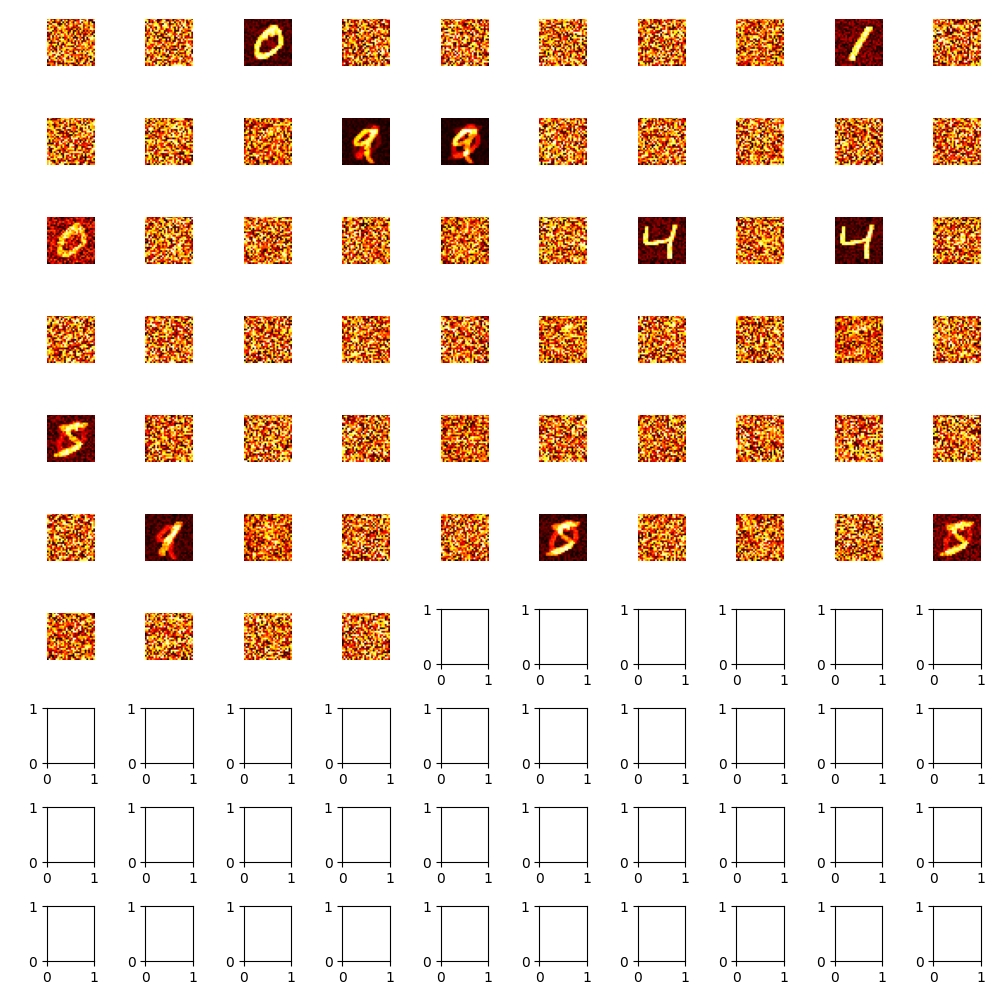
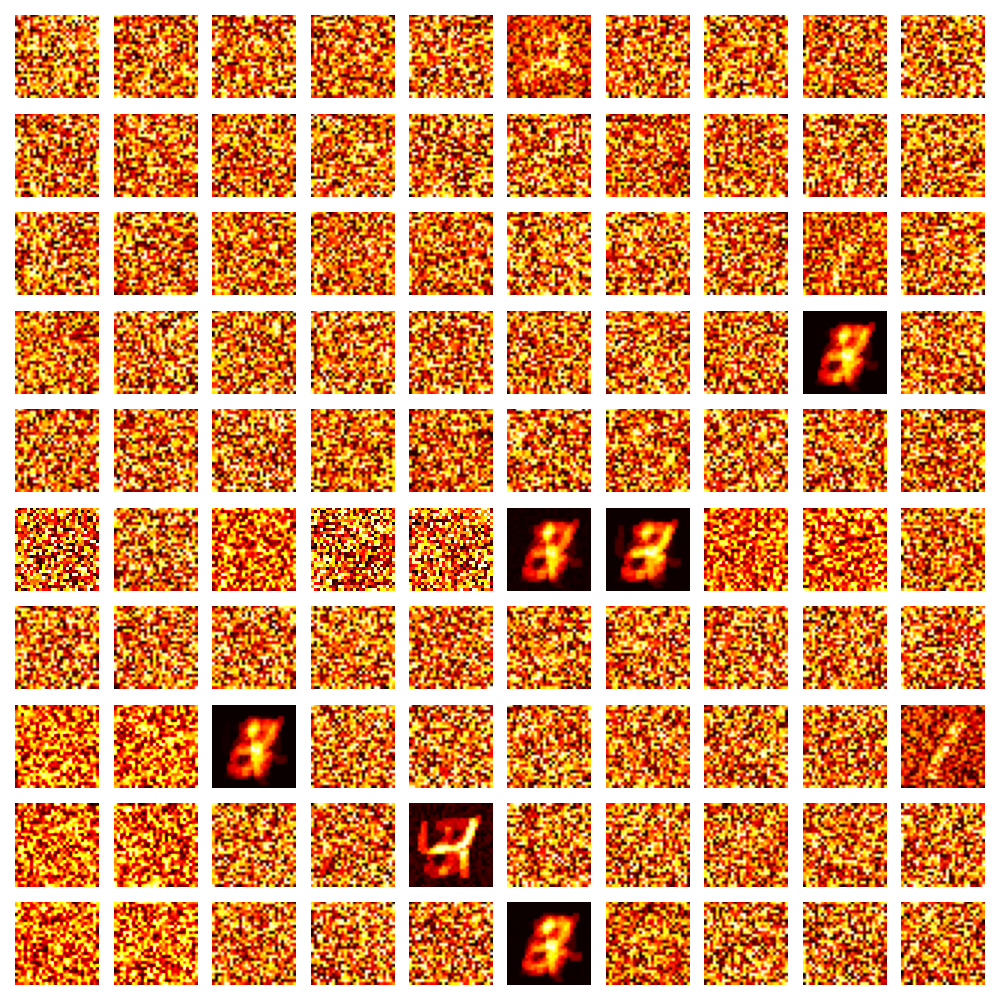
supervised testing to properly check accuracy and use the test data that they have

diff --git a/main.py b/main.py
@@ -1,4 +1,5 @@
 import torch
+import pickle
 from torchvision import datasets, transforms
 from bindsnet.datasets import MNIST
 from bindsnet.encoding import PoissonEncoder
@@ -7,6 +8,7 @@ from bindsnet.network.monitors import Monitor
 from bindsnet.analysis.plotting import plot_input, plot_spikes, plot_weights
 from bindsnet.pipeline import EnvironmentPipeline
 from bindsnet.learning import PostPre
+from collections import Counter, defaultdict
 
 import matplotlib.pyplot as plt
 import os
@@ -22,15 +24,18 @@ print(f"Using device: {device}")
 # Parameters
 n_epochs = 2
 update_interval = 1
-numNeurons = 64
+numNeurons = 100
 simTime = 350
 
 # Dataset and encoding
 #Manually encodes each image and passes it to the neural network
 encoder = PoissonEncoder(time=simTime)
 mnist_data = datasets.MNIST(root='./data', train=True, download=True, transform=transforms.ToTensor())
-subset = 1000
+mnist_test = datasets.MNIST(root='./data', train=False, download=True, transform=transforms.ToTensor())
+subset = 10
+subTest=10
 mnist_data = torch.utils.data.Subset(mnist_data, range(subset))
+mnist_test=torch.utils.data.Subset(mnist_test, range(subTest))
 
 # Initialize the SNN
 network = DiehlAndCook2015(n_inpt=28*28, n_neurons=numNeurons)
@@ -68,23 +73,70 @@ for i in range(n_epochs * len(mnist_data)):
     firing_tracker[neuron_id, label] += 1
 
     labels.append(int(label))
-    predictions.append(neuron_id)  # temporary; will decode later
+    predictions.append(neuron_id)
 
 neuron_label_map={}
 # Assign each neuron a label based on firing history, with a threshold to avoid labelling neurons that are not functioning or barely firing
+#Old system with no confidence threshold to not assign neurons that are not specialized fully
+#for i in range(numNeurons):
+ #   if firing_tracker[i].sum() > 0:
+   #     neuron_label_map[i] = firing_tracker[i].argmax()
+
 for i in range(numNeurons):
-    if firing_tracker[i].sum() > 0:
-        neuron_label_map[i] = firing_tracker[i].argmax()
+    total_spikes = firing_tracker[i].sum()
+    if total_spikes > 0:
+        label = firing_tracker[i].argmax()
+        confidence = firing_tracker[i, label] / total_spikes
+        if confidence > 0.15:
+            neuron_label_map[i] = label
+
+#Old prediction method
+#unlabeled neurons still get compared
 final_predictions = [neuron_label_map.get(nid, -1) for nid in predictions]
+
+#final_predictions = []
+#true_labels = []
+
+#for nid, label in zip(predictions, labels):
+#    if nid in neuron_label_map:
+#        final_predictions.append(neuron_label_map[nid])
+#        true_labels.append(label)
 
 # Evaluation
 correct = sum([p == l for p, l in zip(final_predictions, labels)])
 accuracy = (correct / len(labels) * 100) if labels else 0.0
 print(f"\nFinal Accuracy: {accuracy:.2f}%")
+print(f"Number of labeled neurons: {len(neuron_label_map)}")
+
+# digit accuracy to see what numbers are correct with a high accuracy
+correct_per_class = defaultdict(int)
+total_per_class = Counter(labels)
+
+for p, l in zip(final_predictions, labels):
+    if p == l:
+        correct_per_class[l] += 1
+
+print("\nPer-digit accuracy:")
+for digit in range(10):
+    total = total_per_class[digit]
+    correct = correct_per_class[digit]
+    acc = (correct / total * 100) if total > 0 else 0.0
+    print(f"Digit {digit}: {acc:.2f}%")
 
 # Visualization
 output_dir = "outputs"
 os.makedirs(output_dir, exist_ok=True)
+
+
+#How often each neuron fires off
+neuron_activity = [firing_tracker[i].sum() for i in range(numNeurons)]
+plt.figure(figsize=(10, 4))
+plt.bar(range(numNeurons), neuron_activity)
+plt.title("Neuron Firing Frequency")
+plt.xlabel("Neuron ID")
+plt.ylabel("Total spikes across training")
+plt.tight_layout()
+plt.savefig(os.path.join(output_dir, "neuron_activity.png"))
 
 plot_spikes({"Ae": spike_record})
 plt.savefig(os.path.join(output_dir, "spike_plot.png"))
@@ -105,3 +157,48 @@ plt.savefig(os.path.join(output_dir, "weights.png"))
 
 print("\n[INFO] Mean connection weight:", network.connections["X", "Ae"].w.mean().item())
 print("\n[INFO] Plots saved in outputs/ directory.")
+
+
+
+
+# Training features
+X_train = []
+y_train = []
+for i in range(len(mnist_data)):
+    image, label = mnist_data[i]
+    image = image.view(-1)
+    image = image * 255
+    spike_input = encoder(image.cpu())
+    spike_input = spike_input.to(device)
+    network.run(inputs={"X": spike_input}, time=simTime)
+    spike_record = spike_monitor.get("s")
+    network.reset_state_variables()
+    spike_monitor.reset_state_variables()
+    spike_counts = spike_record.sum(0).cpu().numpy()
+    X_train.append(spike_counts)
+    y_train.append(int(label))
+
+# Testing features
+X_test = []
+y_test = []
+for i in range(len(mnist_test)):
+    image, label = mnist_test[i]
+    image = image.view(-1)
+    image = image * 255
+    spike_input = encoder(image.cpu())
+    spike_input = spike_input.to(device)
+    network.run(inputs={"X": spike_input}, time=simTime)
+    spike_record = spike_monitor.get("s")
+    network.reset_state_variables()
+    spike_monitor.reset_state_variables()
+    spike_counts = spike_record.sum(0).cpu().numpy()
+    X_test.append(spike_counts)
+    y_test.append(int(label))
+
+with open("outputs/X_train.pkl", "wb") as f: pickle.dump(X_train, f)
+with open("outputs/y_train.pkl", "wb") as f: pickle.dump(y_train, f)
+with open("outputs/X_test.pkl", "wb") as f: pickle.dump(X_test, f)
+with open("outputs/y_test.pkl", "wb") as f: pickle.dump(y_test, f)
+
+
+

diff --git a/rerun.py b/rerun.py
@@ -1,0 +1,43 @@
+import pickle, numpy as np
+from sklearn.linear_model import LogisticRegression
+from sklearn.metrics import accuracy_score, confusion_matrix, ConfusionMatrixDisplay
+import matplotlib.pyplot as plt
+
+# Load
+with open("outputs/X_train.pkl", "rb") as f: X_train = pickle.load(f)
+with open("outputs/y_train.pkl", "rb") as f: y_train = pickle.load(f)
+with open("outputs/X_test.pkl", "rb") as f: X_test = pickle.load(f)
+with open("outputs/y_test.pkl", "rb") as f: y_test = pickle.load(f)
+
+X_train = np.array(X_train)
+X_test = np.array(X_test)
+y_train = np.array(y_train).ravel()
+y_test = np.array(y_test).ravel()
+
+# Reshape to 2D if necessary
+if X_train.ndim > 2:
+    X_train = X_train.reshape(X_train.shape[0], -1)
+if X_test.ndim > 2:
+    X_test = X_test.reshape(X_test.shape[0], -1)
+
+print("X_train shape:", X_train.shape)
+print("X_test shape:", X_test.shape)
+print("y_train shape:", y_train.shape)
+print("y_test shape:", y_test.shape)
+
+clf = LogisticRegression(max_iter=1000)
+clf.fit(X_train, y_train)
+y_pred = clf.predict(X_test)
+accuracy = accuracy_score(y_test, y_pred)
+print(f"Supervised readout test accuracy: {accuracy * 100:.2f}%")
+
+# Compute confusion matrix
+cm = confusion_matrix(y_test, y_pred)
+disp = ConfusionMatrixDisplay(confusion_matrix=cm, display_labels=range(10))
+
+# Plot and save
+fig, ax = plt.subplots(figsize=(8, 8))
+disp.plot(ax=ax, cmap="Blues")
+plt.title("Supervised Readout Confusion Matrix")
+plt.savefig("outputs/supervised_confusion_matrix.png")
+plt.show()
